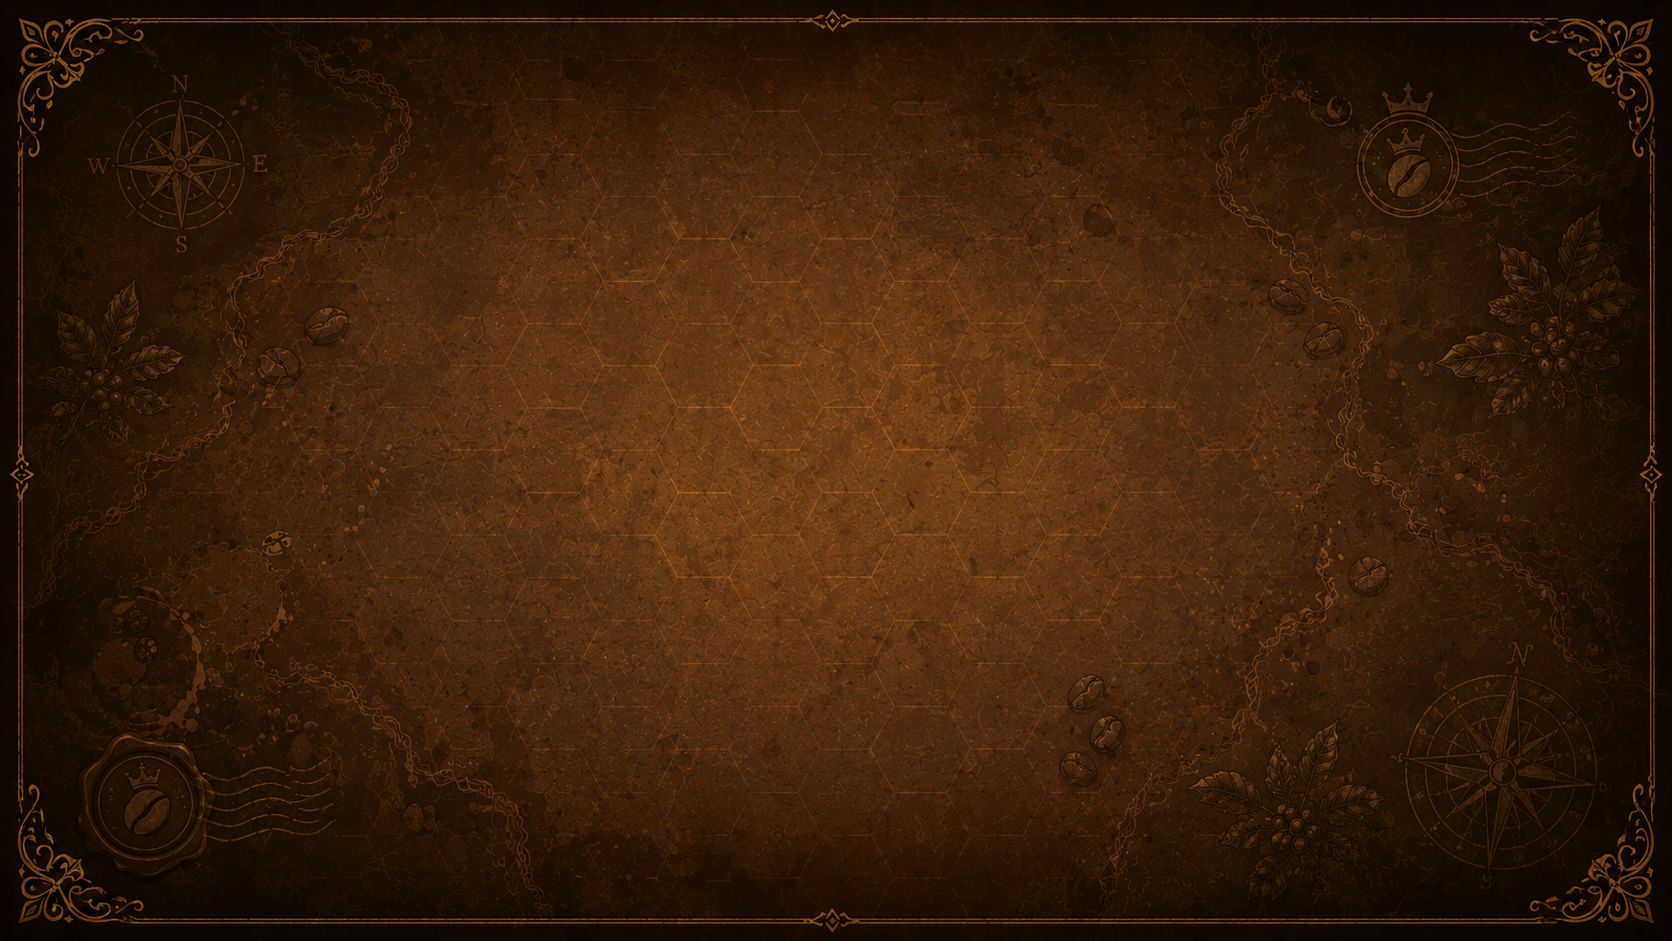
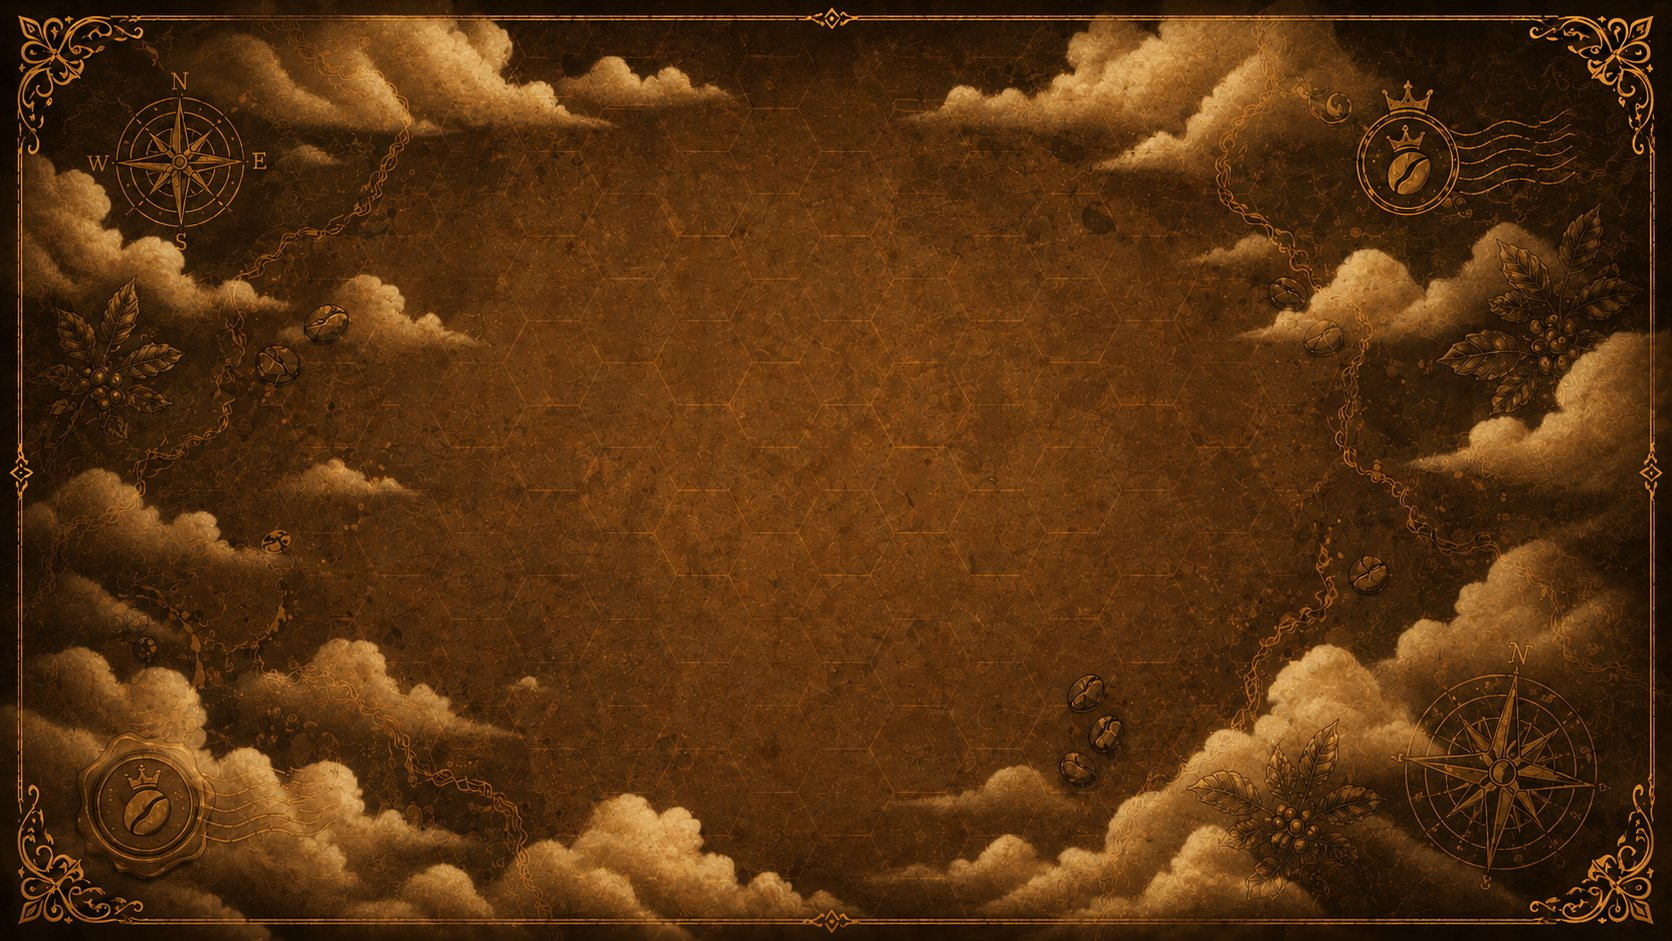
BG V2.1

diff --git a/src/Espressopia.jsx b/src/Espressopia.jsx
@@ -4,7 +4,8 @@ import { useNavigate } from 'react-router-dom'
 const BASE     = import.meta.env.BASE_URL || '/'
 const IMG_DIR  = `${BASE}assets/Espresso/Espresso/`
 const TILE_DIR = `${IMG_DIR}opt/`                 // downscaled tiles (small files)
-const BG_URL   = `${TILE_DIR}BG.png`
+const BG_URL   = `${TILE_DIR}BG.jpg`
+const BG_H_URL = `${TILE_DIR}BG_H.jpg`
 const BGM_URL  = `${BASE}assets/Espresso/MorningWalk.m4a`
 
 /* ─── Scale derived from assembled image (Group 30.png = 17324×13436 px) ───
@@ -26,19 +27,19 @@ const SY = 4368 * S * TIGHT_Y   // vertical step
    of the row above, widest at top → single Cinema tile at the bottom point. */
 const TILES = [
   /* ── Row 0 (top, 4 tiles) ── */
-  { id:'bar',      src:'bar.png',      name:'Bar',      iw:4309, ih:4530, bx:2238, by:4530, cx: 0.0, ry: 0 },
-  { id:'temple',   src:'temple.png',   name:'Temple',   iw:4562, ih:5161, bx:2274, by:5161, cx: 1.0, ry: 0 },
-  { id:'garden',   src:'garden.png',   name:'Garden',   iw:4489, ih:4575, bx:2278, by:4575, cx: 2.0, ry: 0 },
-  { id:'hotel',    src:'Hotel.png',    name:'Hotel',    iw:4319, ih:4685, bx:2210, by:4685, cx: 3.0, ry: 0 },
+  { id:'bar',      src:'bar.webp',      name:'Bar',      iw:4309, ih:4530, bx:2238, by:4530, cx: 0.0, ry: 0 },
+  { id:'temple',   src:'temple.webp',   name:'Temple',   iw:4562, ih:5161, bx:2274, by:5161, cx: 1.0, ry: 0 },
+  { id:'garden',   src:'garden.webp',   name:'Garden',   iw:4489, ih:4575, bx:2278, by:4575, cx: 2.0, ry: 0 },
+  { id:'hotel',    src:'Hotel.webp',    name:'Hotel',    iw:4319, ih:4685, bx:2210, by:4685, cx: 3.0, ry: 0 },
   /* ── Row 1 (3 tiles, offset +0.5) ── */
-  { id:'shop',     src:'shop.png',     name:'Shop',     iw:4467, ih:4700, bx:2238, by:4700, cx: 0.5, ry: 1 },
-  { id:'center',   src:'Center.png',   name:'Center',   iw:4314, ih:4822, bx:2150, by:4822, cx: 1.5, ry: 1 },
-  { id:'vilage',   src:'vilage.png',   name:'Village',  iw:4535, ih:4307, bx:2272, by:4307, cx: 2.5, ry: 1 },
+  { id:'shop',     src:'shop.webp',     name:'Shop',     iw:4467, ih:4700, bx:2238, by:4700, cx: 0.5, ry: 1 },
+  { id:'center',   src:'Center.webp',   name:'Center',   iw:4314, ih:4822, bx:2150, by:4822, cx: 1.5, ry: 1 },
+  { id:'vilage',   src:'vilage.webp',   name:'Village',  iw:4535, ih:4307, bx:2272, by:4307, cx: 2.5, ry: 1 },
   /* ── Row 2 (2 tiles, offset +1.0) ── */
-  { id:'workshop', src:'workshop.png', name:'Workshop', iw:4300, ih:5038, bx:2174, by:5038, cx: 1.0, ry: 2 },
-  { id:'campus',   src:'campus.png',   name:'Campus',   iw:4618, ih:5244, bx:2398, by:5244, cx: 2.0, ry: 2 },
+  { id:'workshop', src:'workshop.webp', name:'Workshop', iw:4300, ih:5038, bx:2174, by:5038, cx: 1.0, ry: 2 },
+  { id:'campus',   src:'campus.webp',   name:'Campus',   iw:4618, ih:5244, bx:2398, by:5244, cx: 2.0, ry: 2 },
   /* ── Row 3 (1 tile, bottom point, offset +1.5) ── */
-  { id:'cinema',   src:'cinrma.png',   name:'Cinema',   iw:5020, ih:4912, bx:2534, by:4912, cx: 1.5, ry: 3 },
+  { id:'cinema',   src:'cinrma.webp',   name:'Cinema',   iw:5020, ih:4912, bx:2534, by:4912, cx: 1.5, ry: 3 },
 ]
 
 /* compute display pixel positions & sizes
@@ -123,7 +124,25 @@ export default function Espressopia() {
   const audioRef = useRef(null)
   const [playing, setPlaying] = useState(false)
   const navigate = useNavigate()
-  const logoUrl = `${BASE}assets/Espresso/Espresso/ESPRESSOPHIA.png`
+  const logoUrl = `${BASE}assets/Espresso/Espresso/ESPRESSOPHIA.webp`
+  const [winSize, setWinSize] = useState({
+    w: typeof window !== 'undefined' ? window.innerWidth : 1280,
+    h: typeof window !== 'undefined' ? window.innerHeight : 720,
+  })
+
+  useEffect(() => {
+    const handleResize = () => setWinSize({ w: window.innerWidth, h: window.innerHeight })
+    window.addEventListener('resize', handleResize)
+    return () => window.removeEventListener('resize', handleResize)
+  }, [])
+
+  const isPortrait = winSize.h > winSize.w
+  const isMobileLandscape = !isPortrait && winSize.h < 550
+
+  useEffect(() => {
+    new Image().src = BG_URL
+    new Image().src = BG_H_URL
+  }, [])
 
   /* Scale the map to fit the space left under the title, so the title+map block
      stays one centred group on every aspect ratio (no big empty gap). */
@@ -191,7 +210,7 @@ export default function Espressopia() {
         'radial-gradient(ellipse 40% 100% at 0%   50%, rgba(10,2,0,0.45)   0%,transparent 55%)',
         'radial-gradient(ellipse 40% 100% at 100% 50%, rgba(10,2,0,0.45)   0%,transparent 55%)',
         'radial-gradient(ellipse 100% 55% at 50% 100%, rgba(6,1,0,0.55)    0%,transparent 60%)',
-        `url("${BG_URL}")`,
+        `url("${isPortrait ? BG_H_URL : BG_URL}")`,
       ].join(', '),
       backgroundSize:'cover', backgroundPosition:'center', backgroundRepeat:'no-repeat',
       display:'flex', alignItems:'center', justifyContent:'center',
@@ -270,8 +289,8 @@ export default function Espressopia() {
         }}>
 
           {/* Title — metallic logo with a looping shine sweep across the letters */}
-          <div ref={titleRef} style={{display:'flex',justifyContent:'center',flexShrink:0,width:'100%'}}>
-            <div style={{ position:'relative', width:'min(520px,80%)' }}>
+          <div ref={titleRef} style={{display:'flex',justifyContent:'center',flexShrink:0,width:'100%',marginTop:24}}>
+            <div style={{ position:'relative', width: isMobileLandscape ? 'min(260px,40%)' : 'min(520px,80%)' }}>
               <img src={logoUrl} alt="Espressophia" style={{
                 display:'block', width:'100%', height:'auto',
                 filter:'contrast(1.08) saturate(1.12) drop-shadow(0 2px 12px rgba(180,130,30,0.6)) drop-shadow(0 1px 4px rgba(0,0,0,0.7))',

diff --git a/src/Huaroi.jsx b/src/Huaroi.jsx
@@ -5,7 +5,7 @@ import { BEAR, WOLF, FOX, CAPULION, CAT, CAPULIONWIN, CATRAMELLOSE, WOLFLICANOLO
 
 /* Same parchment map + warm vignette backdrop as the Espressopia landing page */
 const BASE   = import.meta.env.BASE_URL || '/'
-const BG_URL = `${BASE}assets/Espresso/Espresso/opt/BG.png`
+const BG_URL = `${BASE}assets/Espresso/Espresso/opt/BG.jpg`
 const PAGE_BG = {
   backgroundColor: '#2D1008',
   backgroundImage: [
@@ -27,7 +27,7 @@ const RUN_SCENE = `${BASE}assets/Espresso/Espresso/opt/RunBG_full.jpg`
    100% = ground at the very bottom · lower numbers reveal more of the upper
    scene (wall → buildings → sky). Tweak this one value to reframe all lanes. */
 const SCENE_POS = 'center 90%'
-const CUP_URL   = `${BASE}assets/Espresso/Espresso/opt/CUP.png`   // trophy at each finish line
+const CUP_URL   = `${BASE}assets/Espresso/Espresso/opt/CUP.webp`
 
 const ICON_DIR = `${BASE}assets/Espresso/Espresso/Espresso_icon/opt/`
 const GREY = '#8a8175'
@@ -36,11 +36,11 @@ const GREY = '#8a8175'
    list and the running lanes are ranked by it (most-used first), and each
    centre owns one character (sprite for the run, coin icon for the list). */
 const CENTERS = [
-  { name: 'ศูนย์พัฒนาเด็กเล็กเทศบาลหัวรอ 1', count: 124, sprite: BEAR,     icon: `${ICON_DIR}Bearte_icon.png` },
-  { name: 'ศูนย์พัฒนาเด็กเล็กเทศบาลหัวรอ 2', count: 201, sprite: CAPULION, icon: `${ICON_DIR}Capulion_icon.png` },
-  { name: 'ศูนย์พัฒนาเด็กเล็กสระโคล่ 1',     count: 156, sprite: CAT,      icon: `${ICON_DIR}Catramel_icon.png` },
-  { name: 'ศูนย์พัฒนาเด็กเล็กสระโคล่ 2',     count: 98,  sprite: FOX,      icon: `${ICON_DIR}Foxca_icon.png` },
-  { name: 'ศูนย์พัฒนาเด็กเล็กวัดมหาวนาราม',  count: 172, sprite: WOLF,     icon: `${ICON_DIR}Wolficano_icon.png` },
+  { name: 'ศูนย์พัฒนาเด็กเล็กเทศบาลหัวรอ 1', count: 124, sprite: BEAR,     icon: `${ICON_DIR}Bearte_icon.webp` },
+  { name: 'ศูนย์พัฒนาเด็กเล็กเทศบาลหัวรอ 2', count: 201, sprite: CAPULION, icon: `${ICON_DIR}Capulion_icon.webp` },
+  { name: 'ศูนย์พัฒนาเด็กเล็กสระโคล่ 1',     count: 156, sprite: CAT,      icon: `${ICON_DIR}Catramel_icon.webp` },
+  { name: 'ศูนย์พัฒนาเด็กเล็กสระโคล่ 2',     count: 98,  sprite: FOX,      icon: `${ICON_DIR}Foxca_icon.webp` },
+  { name: 'ศูนย์พัฒนาเด็กเล็กวัดมหาวนาราม',  count: 172, sprite: WOLF,     icon: `${ICON_DIR}Wolficano_icon.webp` },
 ]
 
 /* ── Floor2 plan constants ──────────────────────────────────────────────── */

diff --git a/src/sprites.jsx b/src/sprites.jsx
@@ -9,7 +9,7 @@ const IMG_DIR = `${BASE}assets/Espresso/Espresso/`
    top of each cell) — the baseline drifts between frames, so we anchor every
    frame to the lowest foot line to keep the character planted (no bobbing). */
 export const BEAR = {
-  url: `${IMG_DIR}Bearte_Sprite.png`,
+  url: `${IMG_DIR}Bearte_Sprite.webp`,
   cols: 5, rows: 5, fw: 256, fh: 256, fps: 16,
   feet: [
     218, 223, 233, 234, 233,
@@ -20,7 +20,7 @@ export const BEAR = {
   ],
 }
 export const WOLF = {
-  url: `${IMG_DIR}Wolflicano_Sprite.png`,
+  url: `${IMG_DIR}Wolflicano_Sprite.webp`,
   cols: 5, rows: 5, fw: 256, fh: 256, fps: 16,
   feet: [
     218, 217, 227, 242, 243,
@@ -31,7 +31,7 @@ export const WOLF = {
   ],
 }
 export const FOX = {
-  url: `${IMG_DIR}Foxca_Sprite.png`,
+  url: `${IMG_DIR}Foxca_Sprite.webp`,
   cols: 5, rows: 5, fw: 256, fh: 256, fps: 16,
   feet: [
     218, 223, 235, 234, 234,
@@ -42,7 +42,7 @@ export const FOX = {
   ],
 }
 export const CAPULION = {
-  url: `${IMG_DIR}Capulion_Sprite.png`,
+  url: `${IMG_DIR}Capulion_Sprite.webp`,
   cols: 5, rows: 5, fw: 256, fh: 256, fps: 16,
   feet: [
     220, 215, 228, 235, 233,
@@ -53,7 +53,7 @@ export const CAPULION = {
   ],
 }
 export const CAT = {
-  url: `${IMG_DIR}Catramel_Sprite.png`,
+  url: `${IMG_DIR}Catramel_Sprite.webp`,
   cols: 5, rows: 5, fw: 256, fh: 256, fps: 16,
   feet: [
     214, 217, 239, 238, 215,
@@ -65,31 +65,31 @@ export const CAT = {
 }
 
 export const CAPULIONWIN = {
-  url: `${IMG_DIR}Capulionwin.png`,
+  url: `${IMG_DIR}Capulionwin.webp`,
   cols: 7, rows: 7, fw: 512, fh: 512, fps: 50,
   feet: Array(49).fill(512),
 }
 
 export const CATRAMELLOSE = {
-  url: `${IMG_DIR}Catramellose.png`,
+  url: `${IMG_DIR}Catramellose.webp`,
   cols: 7, rows: 7, fw: 512, fh: 512, fps: 50,
   feet: Array(49).fill(512),
 }
 
 export const WOLFLICANOLOSE = {
-  url: `${IMG_DIR}Wolflicanolose.png`,
+  url: `${IMG_DIR}Wolflicanolose.webp`,
   cols: 5, rows: 5, fw: 512, fh: 512, fps: 25,
   feet: Array(25).fill(512),
 }
 
 export const FOXCALOSE = {
-  url: `${IMG_DIR}Foxcalose.png`,
+  url: `${IMG_DIR}Foxcalose.webp`,
   cols: 5, rows: 5, fw: 512, fh: 512, fps: 25,
   feet: Array(25).fill(512),
 }
 
 export const BEARTELOSE = {
-  url: `${IMG_DIR}Beartelose.png`,
+  url: `${IMG_DIR}Beartelose.webp`,
   cols: 5, rows: 5, fw: 512, fh: 512, fps: 25,
   feet: Array(25).fill(512),
 }
@@ -100,7 +100,7 @@ export const SPRITES = [BEAR, WOLF, FOX, CAPULION, CAT]
    The sheet is a 5×5 grid, but the last frames (14…24) sprout a lion in the
    middle — we stop at `last` so the intro ends on the gathered group. */
 export const INTRO = {
-  url: `${IMG_DIR}actopen-iso_jump_down-v1.png`,
+  url: `${IMG_DIR}actopen-iso_jump_down-v1.webp`,
   cols: 5, rows: 5, fps: 12,
   first: 0, last: 13,
 }

diff --git a/index.html b/index.html
@@ -5,6 +5,18 @@
     <meta name="viewport" content="width=device-width, initial-scale=1.0, maximum-scale=1.0, user-scalable=no" />
     <title>Espressophia</title>
     <meta name="description" content="Espressophia — isometric coffee town map" />
+    <link rel="preload" as="image" href="/assets/Espresso/Espresso/opt/BG.jpg" />
+    <link rel="preload" as="image" href="/assets/Espresso/Espresso/opt/BG_H.jpg" />
+    <link rel="preload" as="image" href="/assets/Espresso/Espresso/opt/bar.webp" />
+    <link rel="preload" as="image" href="/assets/Espresso/Espresso/opt/temple.webp" />
+    <link rel="preload" as="image" href="/assets/Espresso/Espresso/opt/garden.webp" />
+    <link rel="preload" as="image" href="/assets/Espresso/Espresso/opt/Hotel.webp" />
+    <link rel="preload" as="image" href="/assets/Espresso/Espresso/opt/shop.webp" />
+    <link rel="preload" as="image" href="/assets/Espresso/Espresso/opt/Center.webp" />
+    <link rel="preload" as="image" href="/assets/Espresso/Espresso/opt/vilage.webp" />
+    <link rel="preload" as="image" href="/assets/Espresso/Espresso/opt/workshop.webp" />
+    <link rel="preload" as="image" href="/assets/Espresso/Espresso/opt/campus.webp" />
+    <link rel="preload" as="image" href="/assets/Espresso/Espresso/opt/cinrma.webp" />
     <style>
       html, body, #root { margin: 0; padding: 0; height: 100%; }
       body { background: #2D1008; overflow: hidden; }
